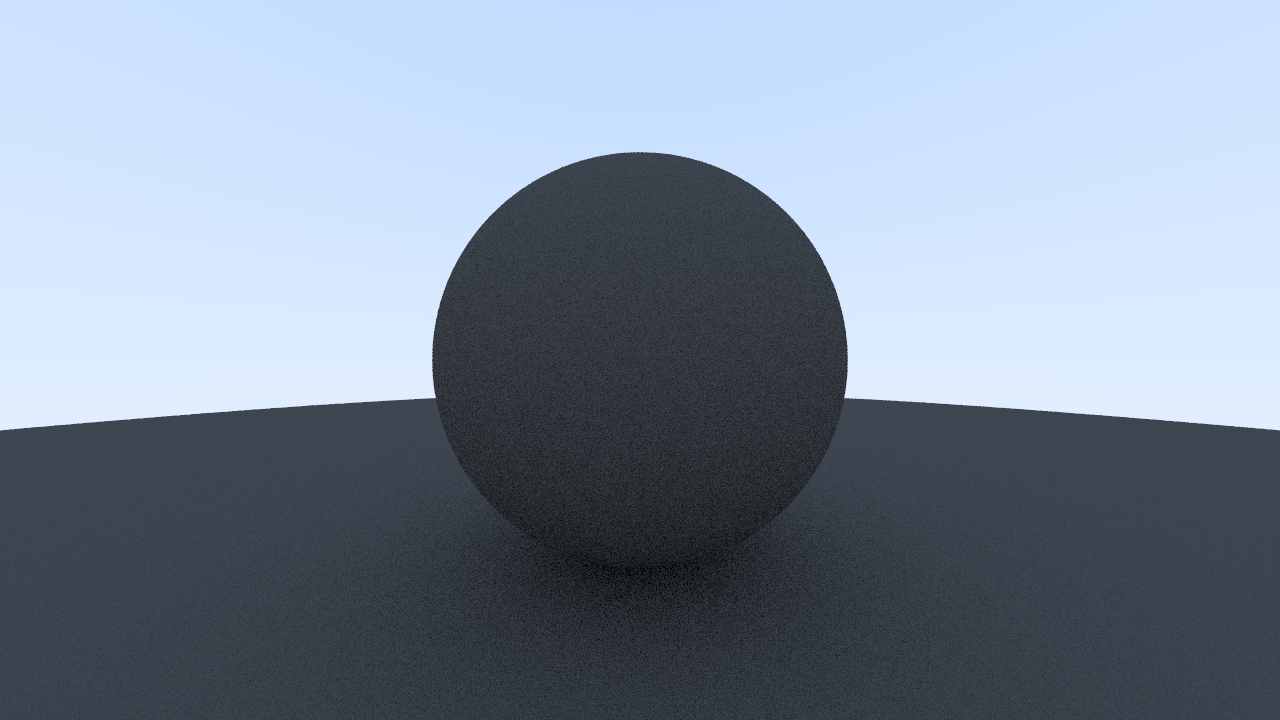
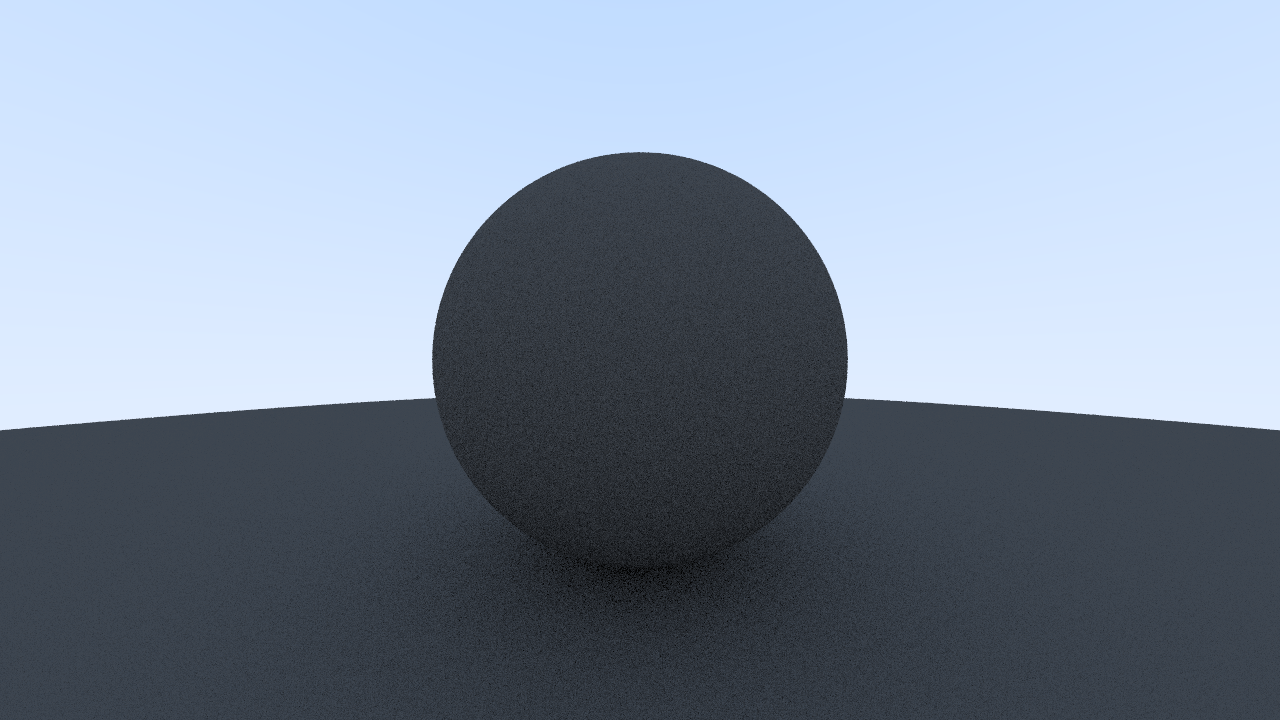
Materials

Changed region(s): [[0.4062, 0.7333, 0.5938, 0.8556]]

diff --git a/src/Material.hpp b/src/Material.hpp
@@ -1,0 +1,40 @@
+#pragma once
+
+#include "Hittable.hpp"
+#include "Ray.hpp"
+
+#include <glm/glm.hpp>
+
+namespace rt
+{
+    class Material
+    {
+    public:
+        virtual ~Material() = default;
+
+        virtual bool Scatter(const Ray &rayIn, const HitDesc &desc, glm::vec3 &attenuation, Ray &scattered) const { return false; }
+    };
+
+    class Lambertian : public Material
+    {
+    public:
+        Lambertian(const glm::vec3 &albedo);
+
+        bool Scatter(const Ray &rayIn, const HitDesc &desc, glm::vec3 &attenuation, Ray &scattered) const override;
+
+    private:
+        glm::vec3 m_Albedo;
+    };
+
+    class Metall : public Material
+    {
+    public:
+        Metall(const glm::vec3 &albedo);
+
+        bool Scatter(const Ray &rayIn, const HitDesc &desc, glm::vec3 &attenuation, Ray &scattered) const override;
+
+    private:
+    glm::vec3 m_Albedo;
+    };
+
+} // namespace rt

diff --git a/src/Material.cpp b/src/Material.cpp
@@ -1,0 +1,35 @@
+#include "Material.hpp"
+#include "Random.hpp"
+#include "VecUtils.hpp"
+
+namespace rt
+{
+    Lambertian::Lambertian(const glm::vec3 &albedo)
+        : m_Albedo(albedo)
+    {
+    }
+
+    bool Lambertian::Scatter(const Ray &rayIn, const HitDesc &desc, glm::vec3 &attenuation, Ray &scattered) const
+    {
+        glm::vec3 scatterDirection = desc.normal + randomUnitVector();
+        if (nearZero(scatterDirection))
+            scatterDirection = desc.normal;
+
+        scattered = Ray(desc.point, scatterDirection);
+        attenuation = m_Albedo;
+        return true;
+    }
+
+    Metall::Metall(const glm::vec3 &albedo)
+    {
+    }
+
+    bool Metall::Scatter(const Ray &rayIn, const HitDesc &desc, glm::vec3 &attenuation, Ray &scattered) const
+    {
+        glm::vec3 reflected = reflect(rayIn.direction(), desc.normal);
+        scattered = Ray(desc.point, reflected);
+        attenuation = m_Albedo;
+        return true;
+    }
+
+} // namespace rt

diff --git a/src/VecUtils.hpp b/src/VecUtils.hpp
@@ -1,0 +1,12 @@
+#pragma once
+
+#include <glm/glm.hpp>
+
+namespace rt
+{
+    inline bool nearZero(const glm::vec3 &v)
+    {
+        return (std::fabs(v.x) < 1e-8) && (std::fabs(v.y) < 1e-8) && (std::fabs(v.z) < 1e-8);
+    }
+
+} // namespace rt

diff --git a/src/Random.hpp b/src/Random.hpp
@@ -51,4 +51,9 @@ namespace rt
             return -onUnitSphere;
     }
 
+    inline glm::vec3 reflect(const glm::vec3 &v, const glm::vec3 &n)
+    {
+        return v - 2 * dot(v, n) * n;
+    }
+
 }